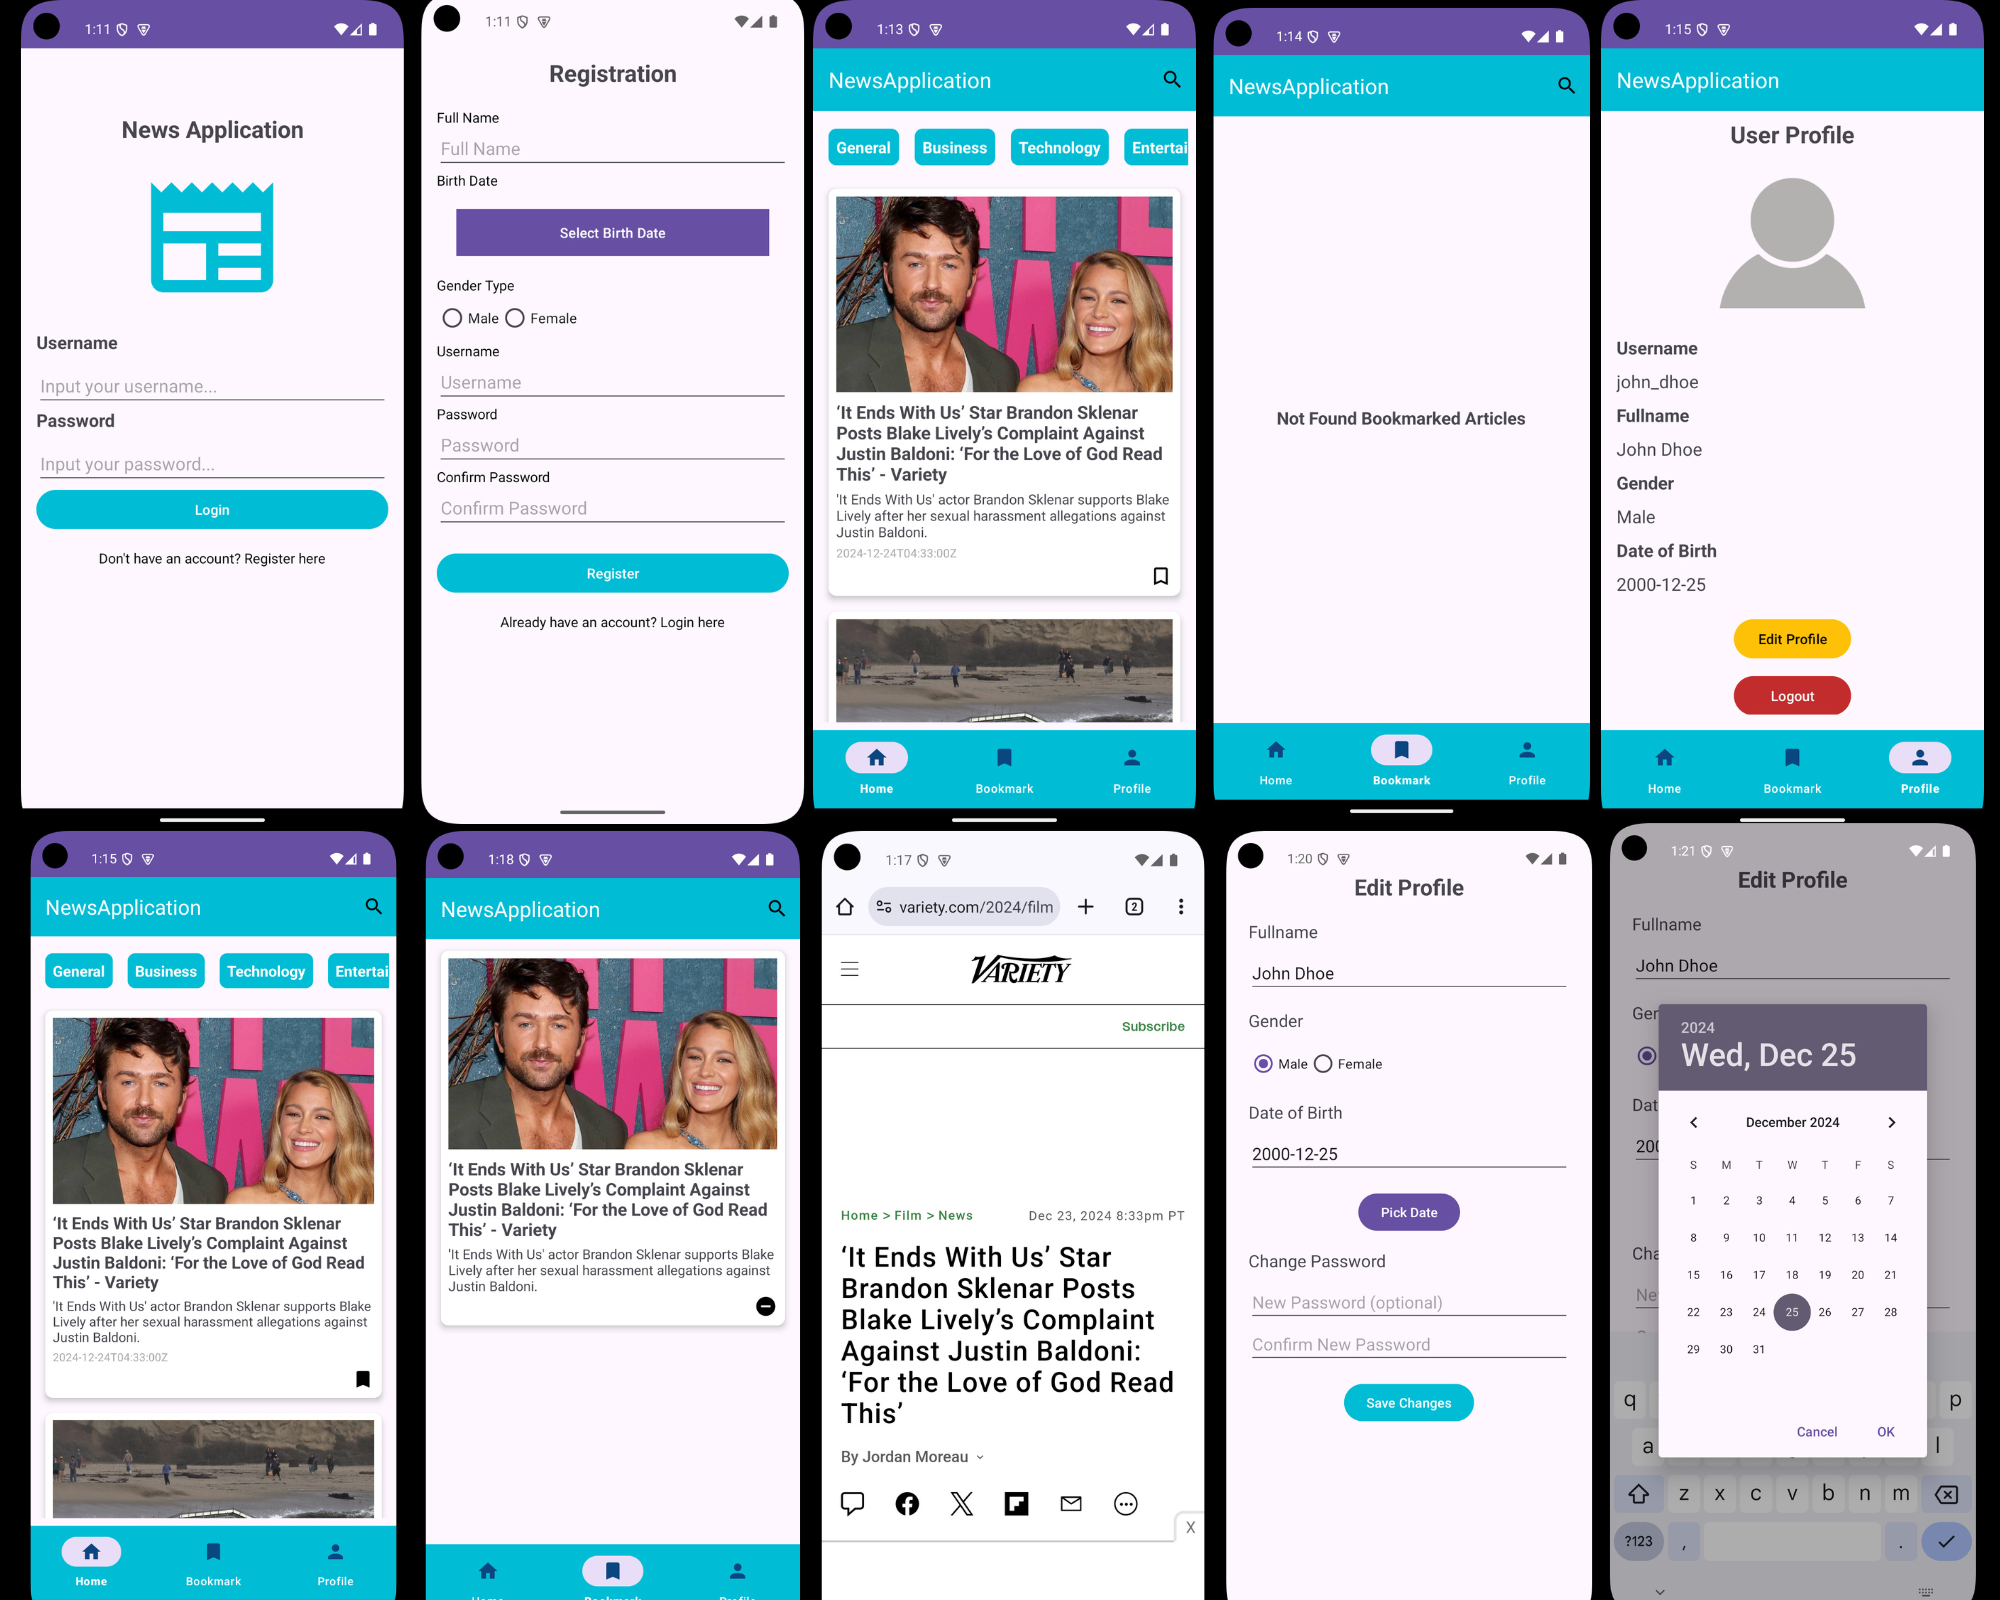
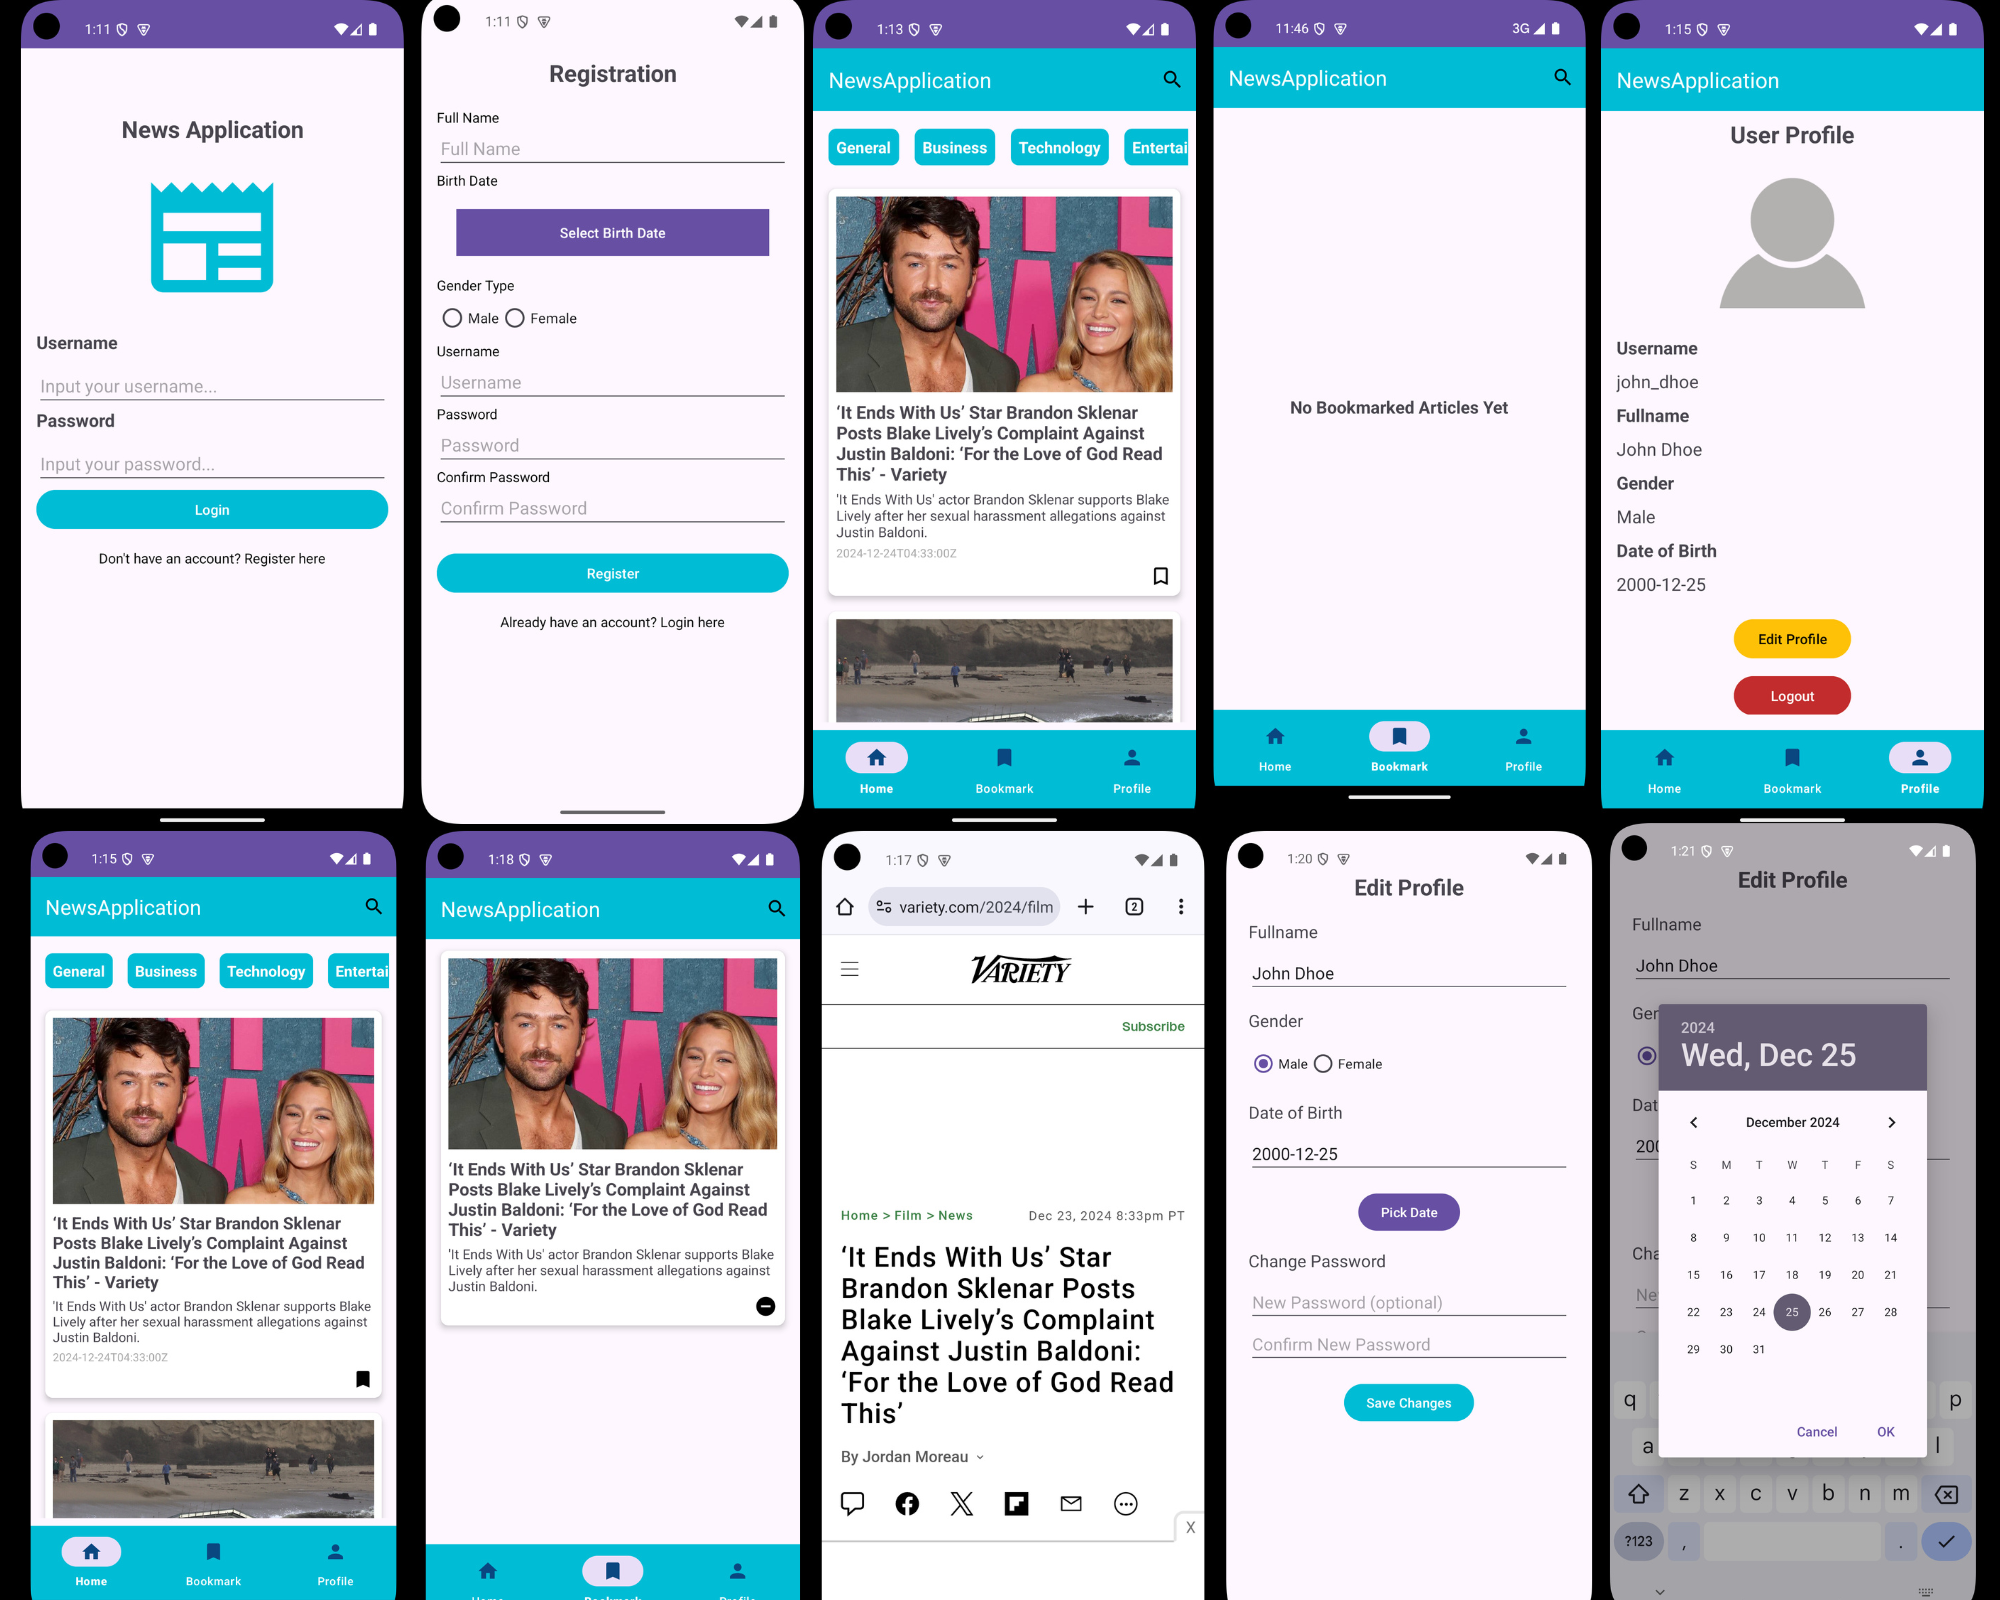
Feat: Empty State Filter and No Items

Changed region(s): [[0.589, 0.0, 0.806, 0.0938], [0.589, 0.4375, 0.806, 0.5], [0.62, 0.25, 0.775, 0.2812]]

diff --git a/app/src/main/java/com/example/newsapplication/fragment/BookmarkedFragment.java b/app/src/main/java/com/example/newsapplication/fragment/BookmarkedFragment.java
@@ -33,7 +33,7 @@ public class BookmarkedFragment extends Fragment {
     private BookmarkAdapter bookmarkAdapter;
     private List<BookmarkedArticle> bookmarkedArticles = new ArrayList<>();
     private List<BookmarkedArticle> filteredList = new ArrayList<>();
-    private TextView tvEmptyMessage;
+    private TextView tvEmptyMessage, tvNotFoundMessage;
     private String loggedInUsername;
 
 
@@ -46,6 +46,7 @@ public class BookmarkedFragment extends Fragment {
 
         recyclerView = view.findViewById(R.id.recyclerViewBookmark);
         tvEmptyMessage = view.findViewById(R.id.tvEmptyMessage);
+        tvNotFoundMessage = view.findViewById(R.id.tvNotFoundMessage);
         recyclerView.setLayoutManager(new LinearLayoutManager(getContext()));
 
         bookmarkAdapter = new BookmarkAdapter(getContext(), filteredList, this::handleBookmarkAllDeleted);
@@ -85,12 +86,18 @@ public class BookmarkedFragment extends Fragment {
     }
 
     private void updateEmptyState() {
-        if (filteredList.isEmpty()) {
+        if(bookmarkedArticles.isEmpty()){
             recyclerView.setVisibility(View.GONE);
             tvEmptyMessage.setVisibility(View.VISIBLE);
+            tvNotFoundMessage.setVisibility(View.GONE);
+        } else if(filteredList.isEmpty()){
+            recyclerView.setVisibility(View.GONE);
+            tvEmptyMessage.setVisibility(View.GONE);
+            tvNotFoundMessage.setVisibility(View.VISIBLE);
         } else {
             recyclerView.setVisibility(View.VISIBLE);
             tvEmptyMessage.setVisibility(View.GONE);
+            tvNotFoundMessage.setVisibility(View.GONE);
         }
     }
 
